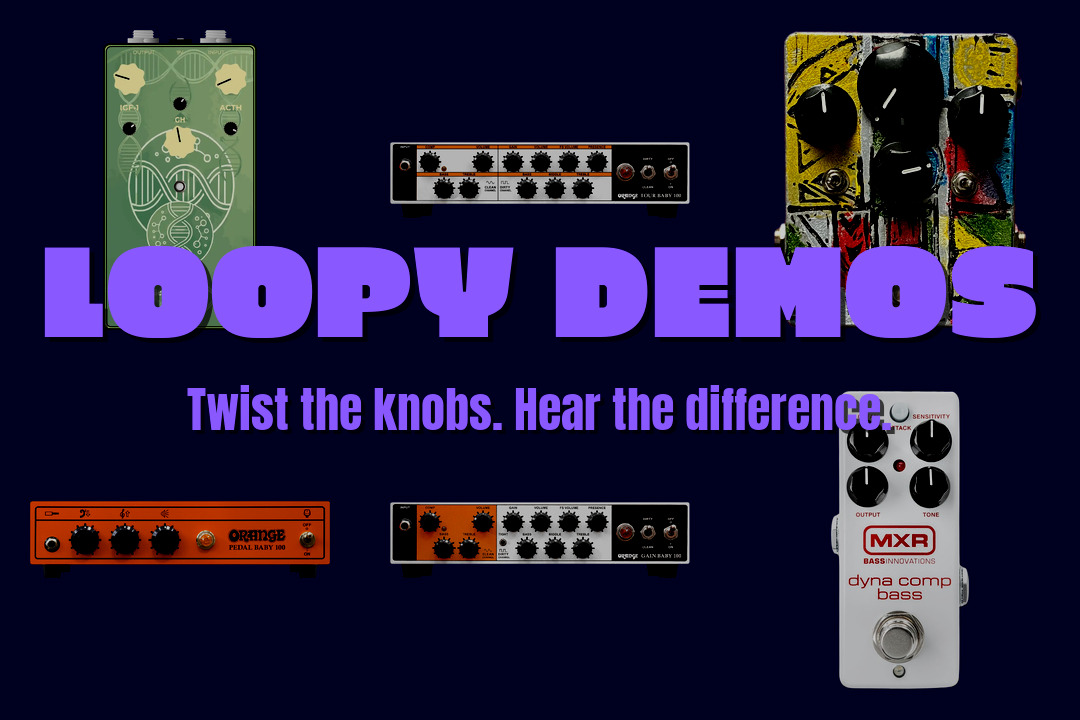
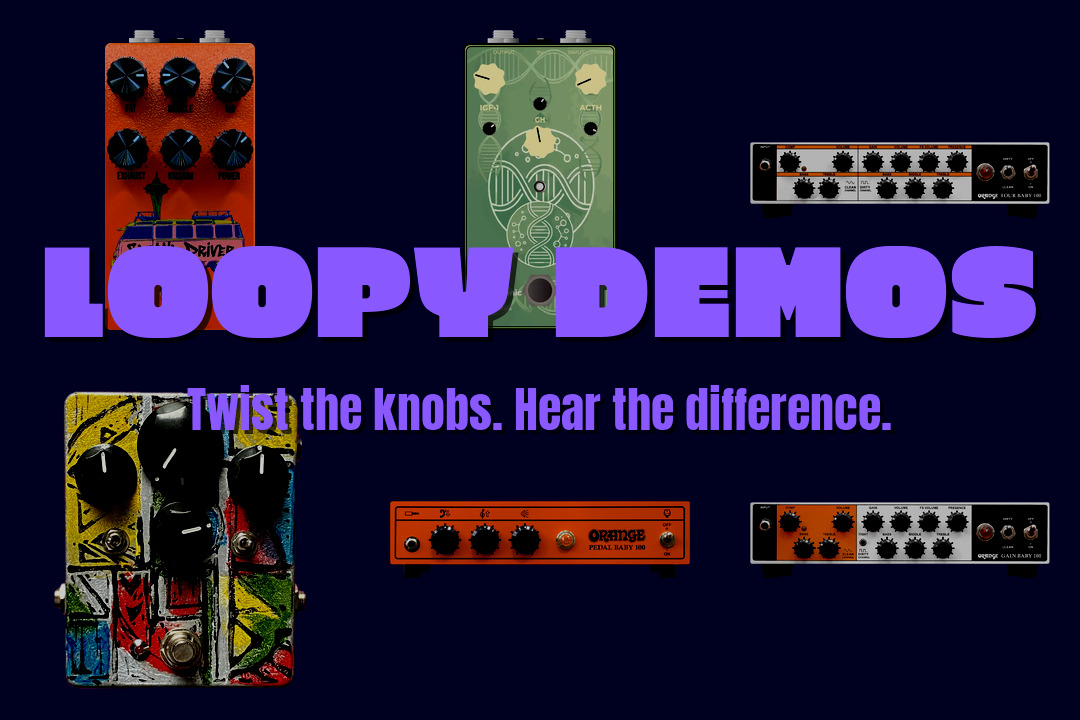
Drunk beaver seattle driver (#66)
* feat: basic file setup

* feat: add beaver knob

* feat: add some presets

---------

diff --git a/src/components/demo-widget/controls/knob/beaver-knob.tsx b/src/components/demo-widget/controls/knob/beaver-knob.tsx
@@ -1,0 +1,69 @@
+import type { Knob } from "@types"
+import { type Component, mergeProps } from "solid-js"
+import styles from "./gradients.module.css"
+
+type BeaverKnobProps = Pick<Knob, "size" | "colors">
+
+export const BeaverKnob: Component<BeaverKnobProps> = props => {
+  const mergedProps = mergeProps(
+    {
+      colors: {
+        primary: "#000",
+        secondary: "#8a8a8a",
+        edge: "#2c2c2c",
+        tick: "#e0ffff",
+      },
+    },
+    props,
+  )
+
+  const uniqueMaskId = `mask-${Math.random().toString(36).slice(2, 11)}`
+  return (
+    <div
+      class={styles["beaver-knob"]}
+      style={{
+        "--size": `${mergedProps.size}px`,
+        "--primaryColor": mergedProps.colors.primary,
+        "--secondaryColor": mergedProps.colors.secondary,
+      }}
+    >
+      <svg
+        width={mergedProps.size}
+        height={mergedProps.size}
+        viewBox="0 0 257 257"
+        fill="none"
+        xmlns="http://www.w3.org/2000/svg"
+      >
+        <title>Knob</title>
+        <g fill="none">
+          <mask
+            id={uniqueMaskId}
+            style="mask-type:alpha"
+            maskUnits="userSpaceOnUse"
+            x="0"
+            y="0"
+            width="257"
+            height="257"
+          >
+            <path
+              d="M116.642 4.397a24.001 24.001 0 0 1 24.68 0l12.251 7.344a24 24 0 0 0 12.733 3.412l14.283-.234a24.001 24.001 0 0 1 21.373 12.34l6.937 12.485a24 24 0 0 0 9.321 9.321l12.487 6.939a24 24 0 0 1 12.339 21.372l-.235 14.282a24.007 24.007 0 0 0 3.412 12.733l7.344 12.251a24 24 0 0 1 0 24.68l-7.344 12.251a24.01 24.01 0 0 0-3.412 12.733l.235 14.283a24.002 24.002 0 0 1-12.339 21.373l-12.487 6.937a24 24 0 0 0-9.321 9.321l-6.937 12.487a24.002 24.002 0 0 1-21.373 12.339l-14.283-.235a24.01 24.01 0 0 0-12.733 3.412l-12.251 7.344a24 24 0 0 1-24.68 0l-12.251-7.344a24.007 24.007 0 0 0-12.733-3.412l-14.282.235a24 24 0 0 1-21.372-12.339l-6.939-12.487a24 24 0 0 0-9.321-9.321l-12.485-6.937a24.001 24.001 0 0 1-12.34-21.373l.234-14.283a24.002 24.002 0 0 0-3.412-12.733l-7.344-12.251a24.001 24.001 0 0 1 0-24.68l7.344-12.251a24 24 0 0 0 3.412-12.733l-.234-14.282a24 24 0 0 1 12.34-21.372l12.485-6.939a24 24 0 0 0 9.321-9.321l6.939-12.485a24 24 0 0 1 21.372-12.34l14.282.234a23.996 23.996 0 0 0 12.733-3.412l12.251-7.344Zm12.34 13.225c-61.502 0-111.36 49.858-111.36 111.36 0 61.503 49.858 111.36 111.36 111.36 61.503 0 111.36-49.857 111.361-111.36 0-61.502-49.858-111.36-111.361-111.36Z"
+              fill="white"
+            />
+          </mask>
+          <g mask={`url(#${uniqueMaskId})`}>
+            <circle
+              cx="128.982"
+              cy="128.982"
+              fill={mergedProps.colors.primary}
+              r="125.796"
+            />
+          </g>
+          <path
+            fill={mergedProps.colors.tick}
+            d="M122.795 20.715h12.373v49.493h-12.373z"
+          />
+        </g>
+      </svg>
+    </div>
+  )
+}

diff --git a/src/content/config.ts b/src/content/config.ts
@@ -50,42 +50,43 @@ export const controlElementSchema = z.object({
 })
 
 const knobTypeEnum = z.enum([
-  "bakelit",
-  "knurled",
-  "offset",
-  "walrus",
-  "lichtlaerm",
-  "jhs",
-  "simple",
-  "fairfield",
-  "simpledot",
-  "chicken",
-  "roundchicken",
-  "gojira",
   "arrow",
+  "bakelit",
+  "beaver",
   "brutalist",
   "cba",
+  "chicken",
   "davies",
-  "joystick",
-  "flb",
-  "obne",
-  "muff",
-  "fanclub",
   "emptyhead",
   "emptyheadlarge",
-  "marconi",
-  "orange",
+  "fairfield",
+  "fanclub",
   "fender",
+  "flb",
+  "gojira",
+  "jhs",
+  "joystick",
+  "knurled",
+  "lichtlaerm",
+  "marconi",
+  "muff",
+  "obne",
+  "offset",
+  "orange",
+  "roundchicken",
+  "simple",
+  "simpledot",
+  "walrus",
 ])
 
 const switchTypeEnum = z.enum([
-  "stomp",
-  "toggle",
+  "cba",
+  "pushbutton",
   "rocker",
   "slide",
+  "stomp",
   "threeway",
-  "pushbutton",
-  "cba",
+  "toggle",
 ])
 
 export const knobSchema = controlElementSchema.extend({

diff --git a/src/components/demo-widget/controls/knob/gradients.module.css b/src/components/demo-widget/controls/knob/gradients.module.css
@@ -127,3 +127,33 @@
     z-index: -1;
   }
 }
+
+.beaver-knob {
+  z-index: 0;
+  position: relative;
+  width: var(--size);
+  height: var(--size);
+
+  &:before {
+    position: absolute;
+    content: " ";
+    width: calc(var(--size) - 4px);
+    height: calc(var(--size) - 4px);
+    top: 2px;
+    left: 2px;
+    background: conic-gradient(
+      from 120deg,
+      var(--secondaryColor),
+      var(--primaryColor),
+      var(--primaryColor),
+      var(--secondaryColor),
+      var(--primaryColor),
+      var(--secondaryColor),
+      var(--primaryColor),
+      var(--primaryColor),
+      var(--secondaryColor)
+    );
+    border-radius: 50%;
+    z-index: -1;
+  }
+}

diff --git a/src/components/demo-widget/controls/knob/knob.tsx b/src/components/demo-widget/controls/knob/knob.tsx
@@ -15,6 +15,7 @@ interface KnobProps extends KnobData {
 
 const knobComponentImports = {
   arrow: () => import("./arrow-knob").then(m => m.ArrowKnob),
+  beaver: () => import("./beaver-knob").then(m => m.BeaverKnob),
   bakelit: () => import("./bakelit-knob").then(m => m.BakelitKnob),
   brutalist: () => import("./brutalist-knob").then(m => m.BrutalistKnob),
   cba: () => import("./cba-knob").then(m => m.CbaKnob),

diff --git a/src/content/demos/drunk-beaver-seattle-driver.md b/src/content/demos/drunk-beaver-seattle-driver.md
@@ -1,0 +1,24 @@
+---
+builder: Drunk Beaver
+model: Seattle Driver
+slug: drunk-beaver-seattle-driver
+type: demo
+isSponsored: true
+date: 2025-09-20
+tags:
+  - power driver
+  - grunge
+  - big muff
+  - distortion
+externalLinks:
+  builderLink: https://drunk-beaver.rocks/products/seattle-driver
+---
+
+Write some copy about the Seattle Driver by Drunk Beaver.
+
+### Signal Chain
+
+- Fender Duo Sonic (single coils) in the bridge position
+- Seattle Driver
+- [Mixwave Benson Chimera Plugin\*](https://sweetwater.sjv.io/B0N2PL)
+- A bit of room-like reverb from the [Valhalla Vintage Verb plugin](https://valhalladsp.com/shop/reverb/valhalla-vintage-verb/)
